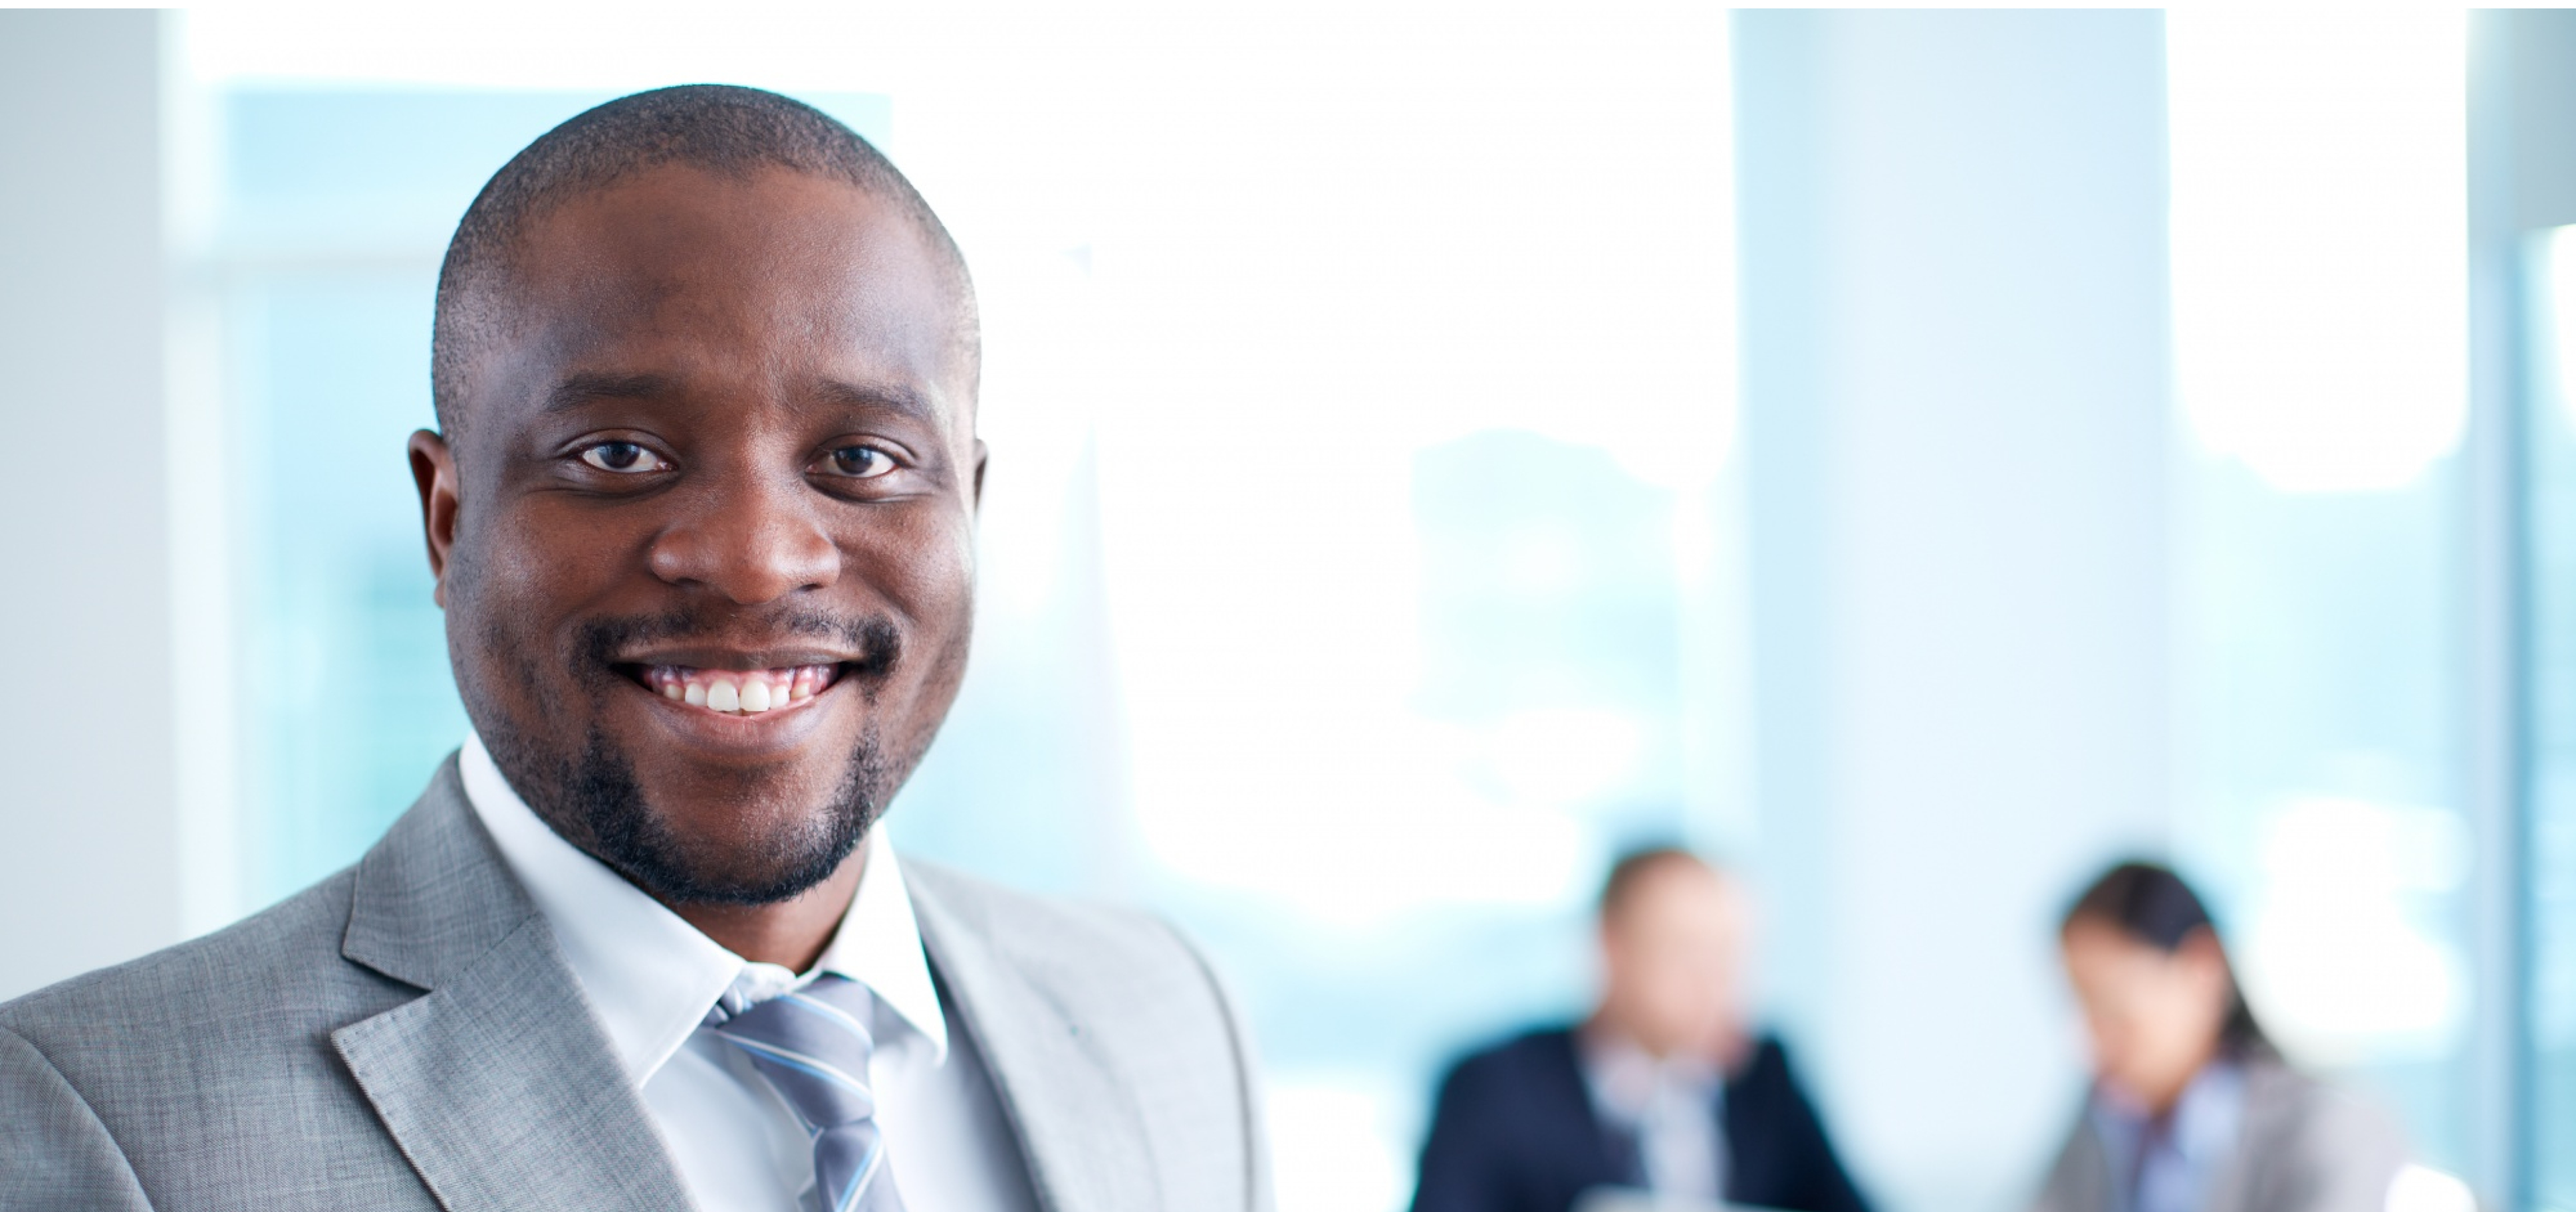
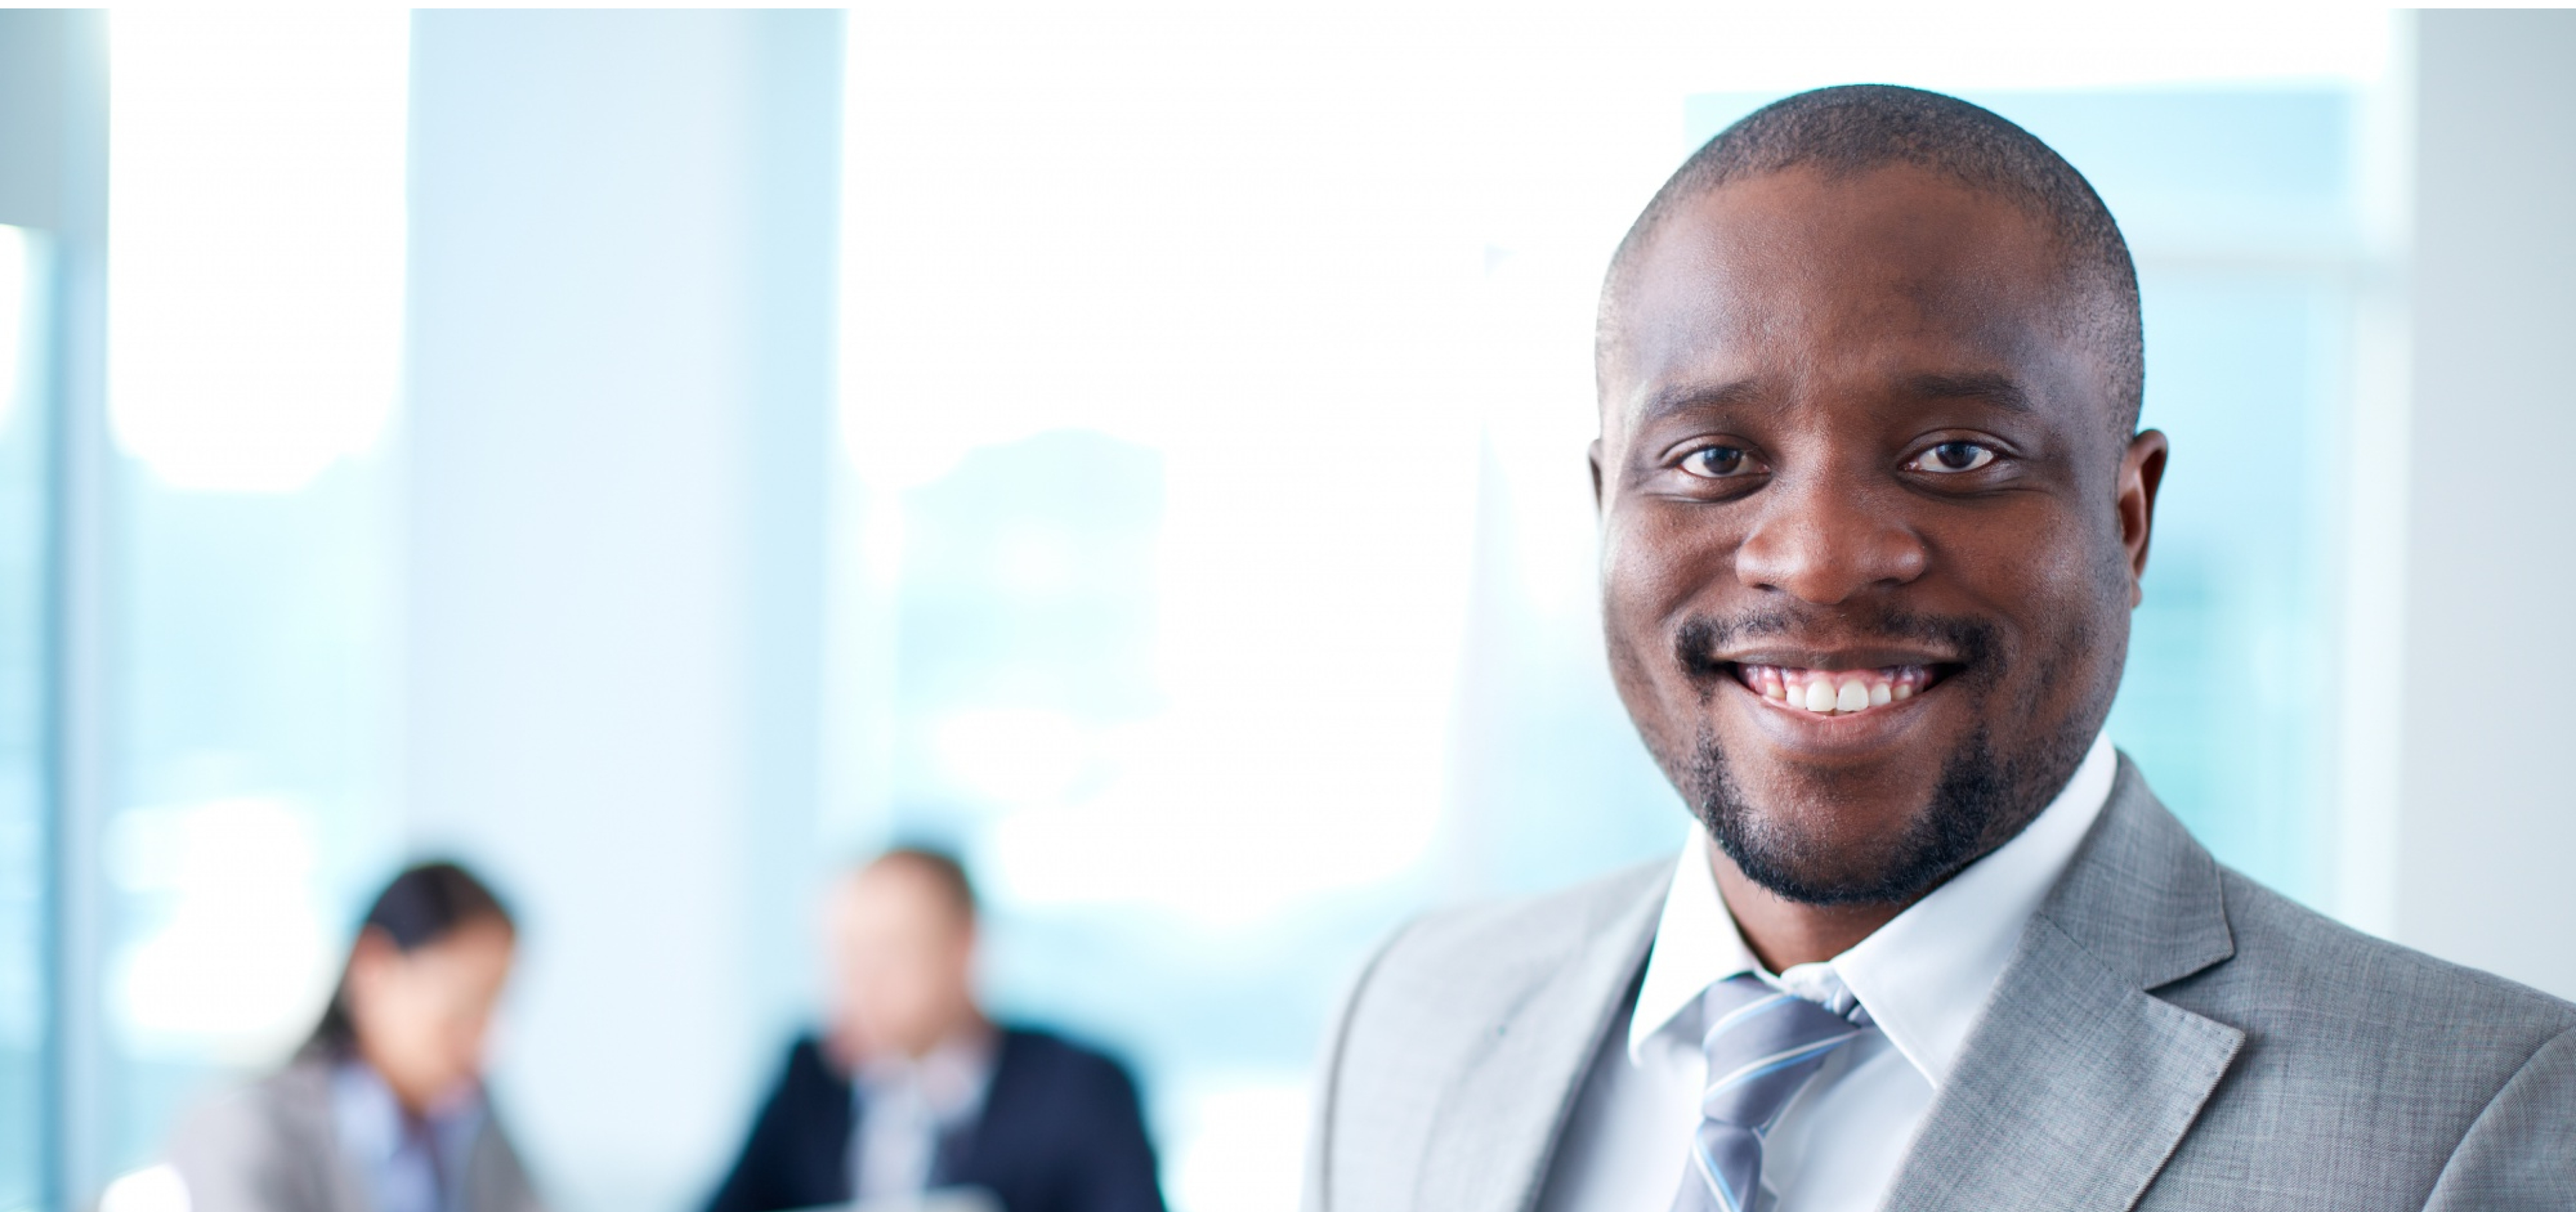
new commit

diff --git a/index.html b/index.html
@@ -132,13 +132,13 @@
         >
           <a href="/" class="flex items-center">
             <img
-              src="images/logo.png"
-              class="mr-3 h-12 md:h-16"
+              src="images/logo-header.png"
+              class="mr-3 h-8 md:h-12"
               loading="lazy"
               alt="loading"
             />
             <div
-              class="self-center text-xl font-semibold whitespace-nowrap border-s-2 border-black"
+              class="hidden self-center text-xl font-semibold whitespace-nowrap border-s-2 border-black"
             >
               <span class="ms-2 hidden md:flex flex-col text-base"
                 >Rising Heights</span
@@ -248,7 +248,7 @@
         <div class="swiper-wrapper">
           <!-- Slides -->
           <section
-            class="swiper-slide bg-[url('images/hero-1.png')] bg-cover bg-top bg-no-repeat"
+            class="hidden swiper-slide bg-[url('images/hero-1.png')] bg-cover bg-top bg-no-repeat"
           >
             <div class="max-w-screen-xl px-4 py-40 mx-auto">
               <div class="grid place-self-center">
@@ -288,7 +288,47 @@
             </div>
           </section>
           <section
-            class="swiper-slide bg-[url('images/hero-1.png')] bg-cover bg-top bg-no-repeat"
+            class="swiper-slide bg-[url('images/hero-2.png')] bg-cover bg-top bg-no-repeat"
+          >
+            <div class="max-w-screen-xl px-4 py-40 mx-auto">
+              <div class="grid place-self-center">
+                <h1
+                  data-aos="zoom-in"
+                  data-aos-duration="4000"
+                  data-aos-delay="300"
+                  class="max-w-2xl mb-4 text-2xl font-extrabold tracking-tight leading-none xl:text-4xl"
+                >
+                  Rising Height
+                </h1>
+                <h1
+                  data-aos="zoom-in"
+                  data-aos-duration="4000"
+                  data-aos-delay="300"
+                  class="max-w-xl mb-4 text-4xl font-extrabold tracking-tight leading-none md:text-5xl xl:text-6xl uppercase"
+                >
+                  <div class="text-[#ff5134]">Corporate</div>
+                  Social Association
+                </h1>
+                <p
+                  data-aos="fade-up-left"
+                  data-aos-duration="4000"
+                  data-aos-delay="300"
+                  class="max-w-2xl mb-6 text-gray-900 font-semibold lg:mb-8 md:text-lg lg:text-xl"
+                >
+                  Enhancing and Advancing the Social Dignity and Well-Being of
+                  Man Through Empowerment
+                </p>
+                <a
+                  href="#"
+                  class="inline-flex items-center justify-center px-5 py-3 mr-3 text-sm font-medium text-center text-white rounded-lg bg-[#ff5134] hover:bg-opacity-90 w-fit"
+                >
+                  Get started
+                </a>
+              </div>
+            </div>
+          </section>
+          <section
+            class="swiper-slide bg-[url('images/hero-3.png')] bg-cover bg-top bg-no-repeat"
           >
             <div class="max-w-screen-xl px-4 py-40 mx-auto">
               <div class="grid place-self-center">
@@ -1113,8 +1153,7 @@
 
     <script src="https://unpkg.com/aos@2.3.1/dist/aos.js"></script>
     <script>
-      AOS.init();
-      const swiper = new Swiper(".swiper", {
+       const swiper = new Swiper(".swiper", {
         // Optional parameters
         direction: "horizontal",
         loop: true,
@@ -1138,6 +1177,7 @@
           el: ".swiper-scrollbar",
         },
       });
+      AOS.init();
 
       const worksArray = [
         {
